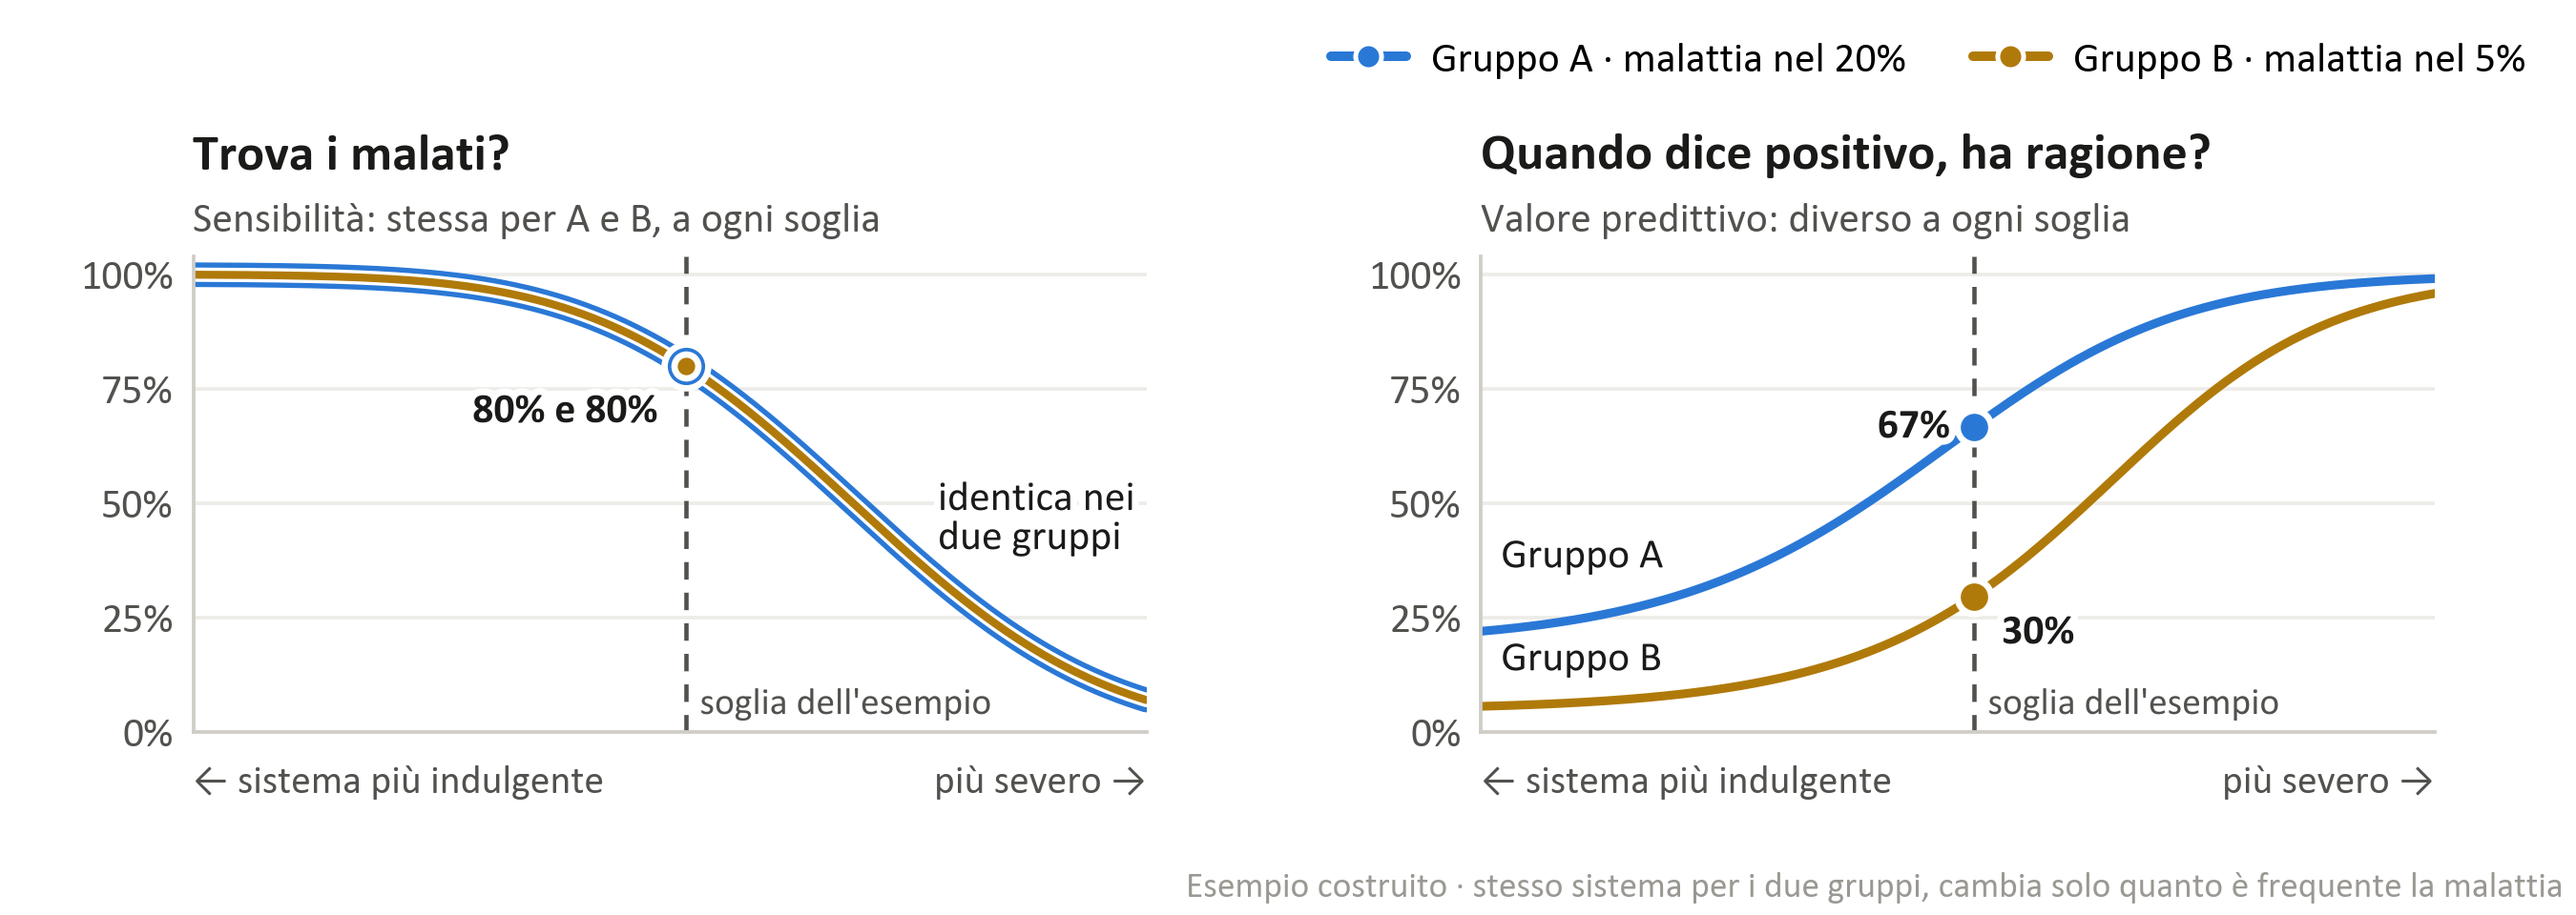
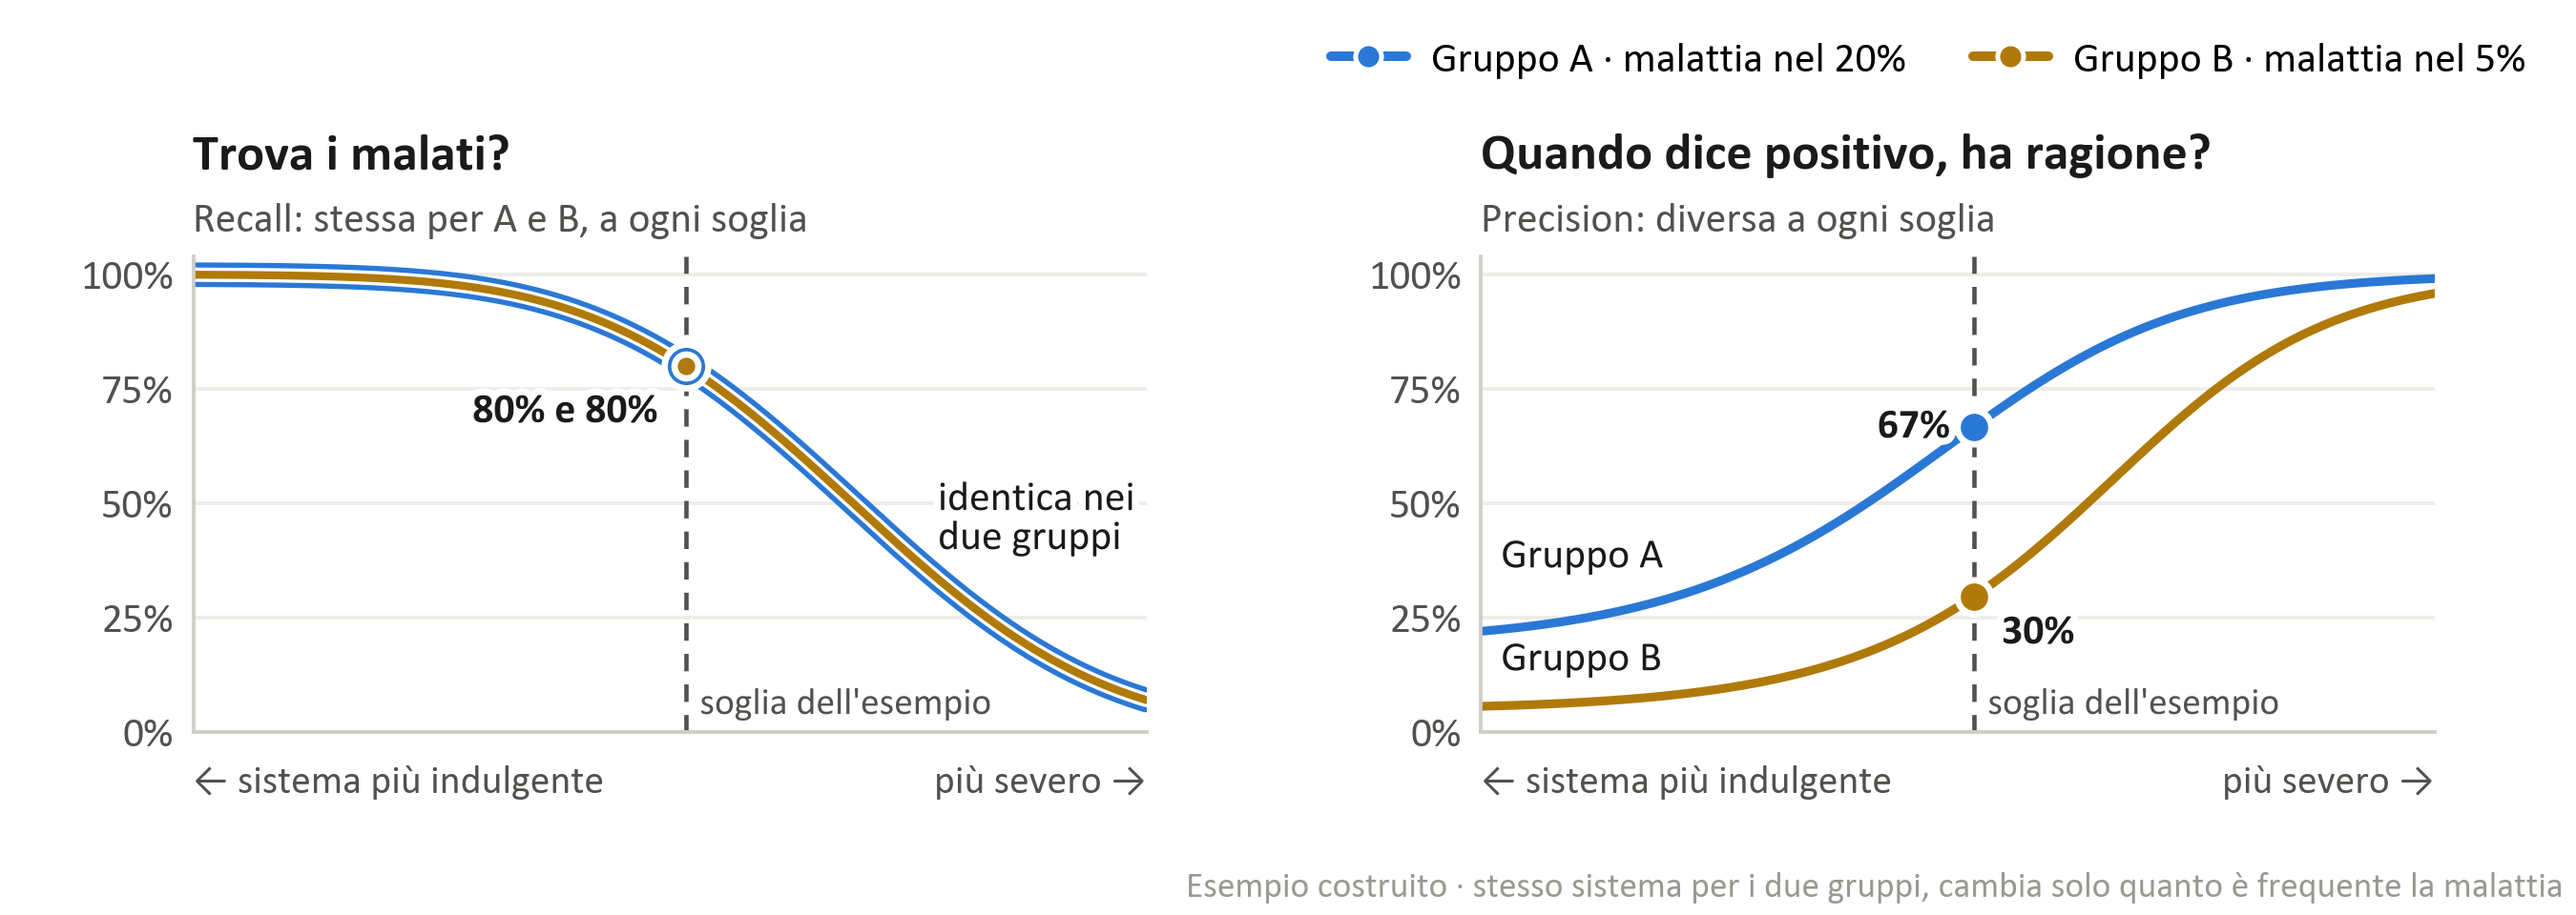
Terminologia inglese per le metriche: recall, specificity, precision
Figure S16, F17 e S31, notebook sulle radiografie e README: recall al posto
di sensibilita, precision al posto di valore predittivo. Soglia e calibrazione
restano in italiano.

Changed region(s): [[0.56, 0.2188, 0.84, 0.2812], [0.0622, 0.2188, 0.3422, 0.2812]]

diff --git a/figure/genera_immagini_slide.py b/figure/genera_immagini_slide.py
@@ -357,7 +357,7 @@ def qr():
 def s16():
     fig = plt.figure(figsize=(4.4, 3.3))
     titolo_fig(fig, "Tre richieste, tutte ragionevoli", "Ognuna chiede che i due gruppi siano uguali su una misura diversa")
-    voci = [("Trova i malati", "sensibilità"), ("Positivo affidabile", "valore predittivo"),
+    voci = [("Trova i malati", "recall"), ("Positivo affidabile", "precision"),
             ("Rischio veritiero", "calibrazione")]
     for k, (t, s) in enumerate(voci):
         ax = fig.add_axes([0.04 + k * 0.325, 0.12, 0.27, 0.5])
@@ -632,7 +632,7 @@ def s31(seed=8):
     b = np.where(mesi <= 12, 0.85, 0.85 - 0.03 * np.minimum(mesi - 12, 6)) + rng.normal(0, 0.014, 24)
     tutti = 0.85 * a + 0.15 * b
     fig = plt.figure(figsize=(4.5, 3.3))
-    titolo_fig(fig, "Il sistema era equo. Poi", "Sensibilità mese per mese: la media non vede il gruppo B", y=0.965)
+    titolo_fig(fig, "Il sistema era equo. Poi", "Recall mese per mese: la media non vede il gruppo B", y=0.965)
     ax = fig.add_axes([0.12, 0.17, 0.68, 0.56])
     ax.axhline(0.75, color=INK2, lw=1.1, ls=(0, (4, 3)))
     ax.axvline(12.5, color=GRIGIO, lw=1.2)

diff --git a/figure/genera_figure.py b/figure/genera_figure.py
@@ -353,7 +353,7 @@ def f17():
              fontweight="bold", path_effects=ALONE)
     axs.text(2.55, 0.40, "identica nei\ndue gruppi", fontsize=10.5, color=INK, linespacing=1.1, path_effects=ALONE)
     axs.set_title("Trova i malati?")
-    sottotitolo(axs, "Sensibilità: stessa per A e B, a ogni soglia")
+    sottotitolo(axs, "Recall: stessa per A e B, a ogni soglia")
 
     axv.plot(t, vpp(0.20), color=BLU)
     axv.plot(t, vpp(0.05), color=ORO)
@@ -365,7 +365,7 @@ def f17():
     axv.text(-1.1, 0.36, "Gruppo A", fontsize=10.5, color=INK, path_effects=ALONE)
     axv.text(-1.1, 0.135, "Gruppo B", fontsize=10.5, color=INK, path_effects=ALONE)
     axv.set_title("Quando dice positivo, ha ragione?")
-    sottotitolo(axv, "Valore predittivo: diverso a ogni soglia")
+    sottotitolo(axv, "Precision: diversa a ogni soglia")
 
     legenda(fig, [("Gruppo A · malattia nel 20%", BLU), ("Gruppo B · malattia nel 5%", ORO)])
     nota(fig, "Esempio costruito · stesso sistema per i due gruppi, cambia solo quanto è frequente la malattia")

diff --git a/README.md b/README.md
@@ -48,7 +48,7 @@ Il percorso della dimostrazione:
 2. La lastra a letto (AP) si fa ai pazienti piu gravi: e AP l'88% delle radiografie con edema, il 35% di quelle senza reperti.
 3. Un modello cerca l'edema guardando solo la proiezione: AUROC 0.756 su pazienti che non ha mai visto; con eta, sesso e apparecchio 0.787.
 4. Per gruppo la scorciatoia rende in modo diverso, e sopra i 70 anni poggia su 34 casi.
-5. Il valore predittivo resta al 4.8%, perche l'edema riguarda il 2.1% delle radiografie.
+5. La precision resta al 4.8%, perche l'edema riguarda il 2.1% delle radiografie.
 
 ## Dati
 
@@ -115,7 +115,7 @@ Verifica su 33.082 radiografie di 9.242 pazienti mai visti in addestramento (691
 | 50-69 anni | 306 | 0.74 |
 | 70 anni e oltre | 34 | 0.69 |
 
-Con proiezione, eta, sesso e apparecchio (`HistGradientBoostingClassifier`, `random_state=0`): 0.787. Valore predittivo della sola proiezione: 4.8%, con l'edema nel 2.1% delle radiografie.
+Con proiezione, eta, sesso e apparecchio (`HistGradientBoostingClassifier`, `random_state=0`): 0.787. Precision della sola proiezione: 4.8%, con l'edema nel 2.1% delle radiografie.
 
 ## Grafici della lezione
 
